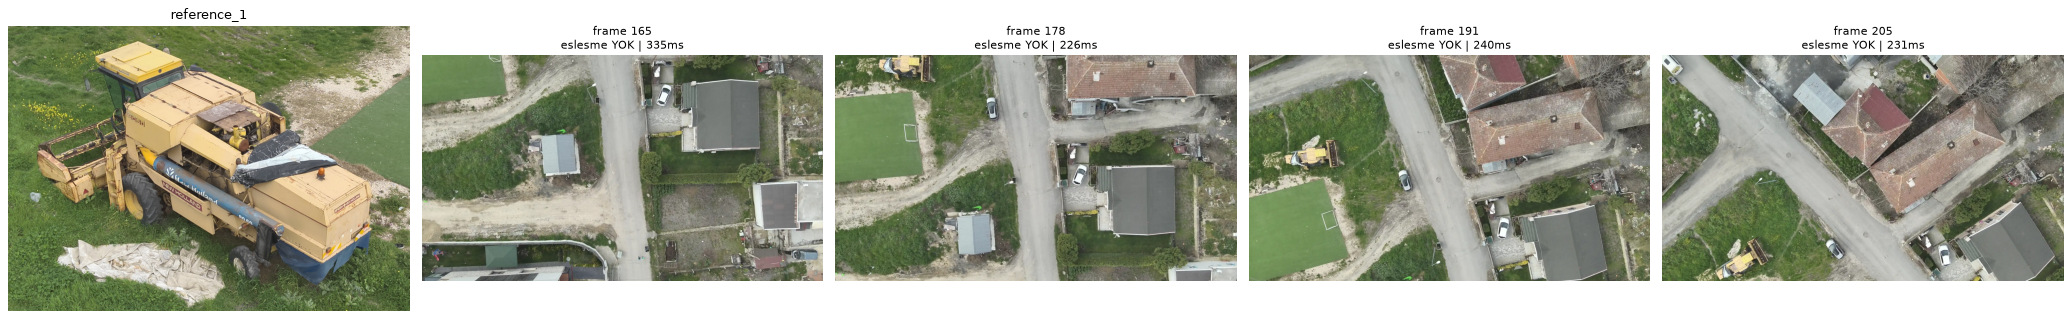
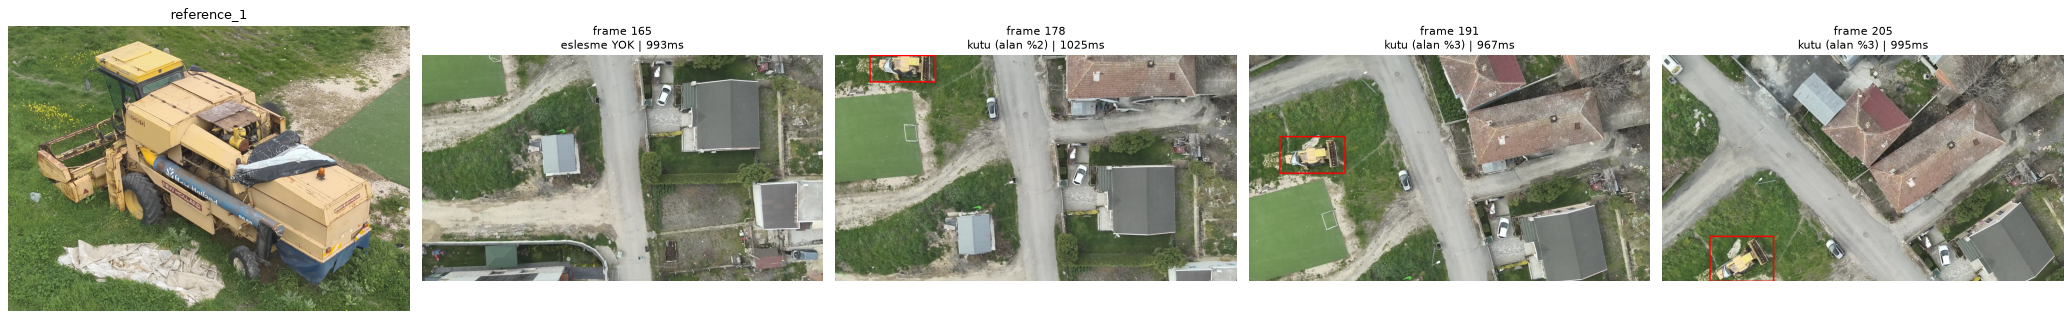
Gorev 3 minik nesne: SAHI-style tiling (buyuk goruntude kucuk nesne)
Internet arastirmasi (SAHI arXiv 2202.06934): buyuk goruntuyu ortusen karolara bol, her karoda ara. Uygulandi: (1) _tiled_heatmap - sahneyi 640px/0.2-ortusme karolara bolup her karoda benzerlik haritasi, tam-kare tuvaline max-blend. (2) match: TAM-KARE (buyuk nesne) + TILED (minik nesne) AYRI bbox cikarir (her biri kendi statistical esigiyle - arka plan yukselmesi buyuk nesneyi bozmaz), NMS birlestirir. (3) config tiling bolumu. SONUC: bicerdover (minik) artik yakalaniyor (frame 178/191/205 kutu obje uzerinde) VE hali saha (buyuk) korunuyor (frame 568 %14). ~1s/kare (yalniz referans penceresinde). Kucuk yanlis pozitifler var (recall/precision dengesi). Zero-shot korunur.

diff --git a/gorev3/template_matcher.py b/gorev3/template_matcher.py
@@ -302,6 +302,42 @@ class TemplateMatcher:
         union = a.width * a.height + b.width * b.height - inter
         return inter / union if union > 0 else 0.0
 
+    # ── Tiling (SAHI: buyuk goruntude minik nesne) ─────────────────────────────
+
+    def _tile_positions(self, H: int, W: int, tile: int, overlap: float):
+        """Ortusen karolarin sol-ust koseleri (kenarlar dahil)."""
+        stride = max(1, int(round(tile * (1.0 - overlap))))
+        def eksen(L):
+            if L <= tile:
+                return [0]
+            ps = list(range(0, L - tile + 1, stride))
+            if ps[-1] != L - tile:
+                ps.append(L - tile)
+            return ps
+        xs, ys = eksen(W), eksen(H)
+        return [(x, y) for y in ys for x in xs]
+
+    def _tiled_heatmap(self, frame: np.ndarray, ref: "ReferenceObject") -> np.ndarray:
+        """SAHI-style: sahneyi ortusen karolara bol, her karoda benzerlik haritasi
+        cikar, tam-kare tuvaline MAX ile birlestir. Minik nesne bir karoda yuksek
+        cozunurlukte buyur ve tepe olusturur (ölcek sorununu asar)."""
+        H, W = frame.shape[:2]
+        tcfg = self.config.get('tiling', {})
+        tile = min(int(tcfg.get('tile_size', 640)), H, W)
+        overlap = float(tcfg.get('overlap', 0.2))
+        full = np.zeros((H, W), dtype=np.float32)
+        for (x, y) in self._tile_positions(H, W, tile, overlap):
+            crop = frame[y:y + tile, x:x + tile]
+            ch, cw = crop.shape[:2]
+            feats = {}
+            for name, size in self.FPN_LEVELS:
+                _, p, gh, gw = self._extract(crop, size)
+                feats[name] = (p, gh, gw)
+            th = self._fpn_heatmap(ch, cw, ref, feats)          # (ch, cw)
+            sub = full[y:y + ch, x:x + cw]
+            full[y:y + ch, x:x + cw] = np.maximum(sub, th)
+        return full
+
     # ── Main Inference ────────────────────────────────────────────────────────
 
     def match(
@@ -318,9 +354,10 @@ class TemplateMatcher:
             raise ValueError("No references registered. Call add_reference() first.")
 
         H_orig, W_orig = frame.shape[:2]
+        tiled = bool(self.config.get('tiling', {}).get('enabled', False))
 
-        # Kare ozniteliklerini olcek basina BIR KEZ cikar (referanstan bagimsiz).
-        # Boylece N referans icin 3 (olcek) omurga gecisi yeter — eskiden 3*N idi.
+        # Kare ozniteliklerini olcek basina BIR KEZ cikar (tam-kare gecis; hem tek-
+        # gecis modunda hem tiling modunda buyuk nesne icin kullanilir).
         frame_feats = {}
         for name, size in self.FPN_LEVELS:
             _, frame_patches, gh, gw = self._extract(frame, size)
@@ -333,11 +370,21 @@ class TemplateMatcher:
         all_heatmaps   = {}
 
         for ref in candidates:
-            heatmap = self._fpn_heatmap(H_orig, W_orig, ref, frame_feats)
-            all_heatmaps[ref.object_id] = heatmap
-            det = self._extract_bbox(frame, heatmap, ref.object_id)
-            if det is not None:
-                all_detections.append(det)
+            # TAM-KARE gecis (buyuk nesne). Kendi statistical esigiyle bbox.
+            whole = self._fpn_heatmap(H_orig, W_orig, ref, frame_feats)
+            dw = self._extract_bbox(frame, whole, ref.object_id)
+            if dw is not None:
+                all_detections.append(dw)
+            hm = whole
+            if tiled:
+                # TILED gecis (minik nesne). AYRI bbox (kendi esigi) -> arka plan
+                # yukselmesi buyuk nesneyi bozmaz. SAHI: dilim + tam-kare tespitleri birlesir.
+                tiled_hm = self._tiled_heatmap(frame, ref)
+                dt = self._extract_bbox(frame, tiled_hm, ref.object_id)
+                if dt is not None:
+                    all_detections.append(dt)
+                hm = np.maximum(whole, tiled_hm)   # yalnizca gorsellestirme icin
+            all_heatmaps[ref.object_id] = hm
 
         final = self._nms(all_detections)
 
